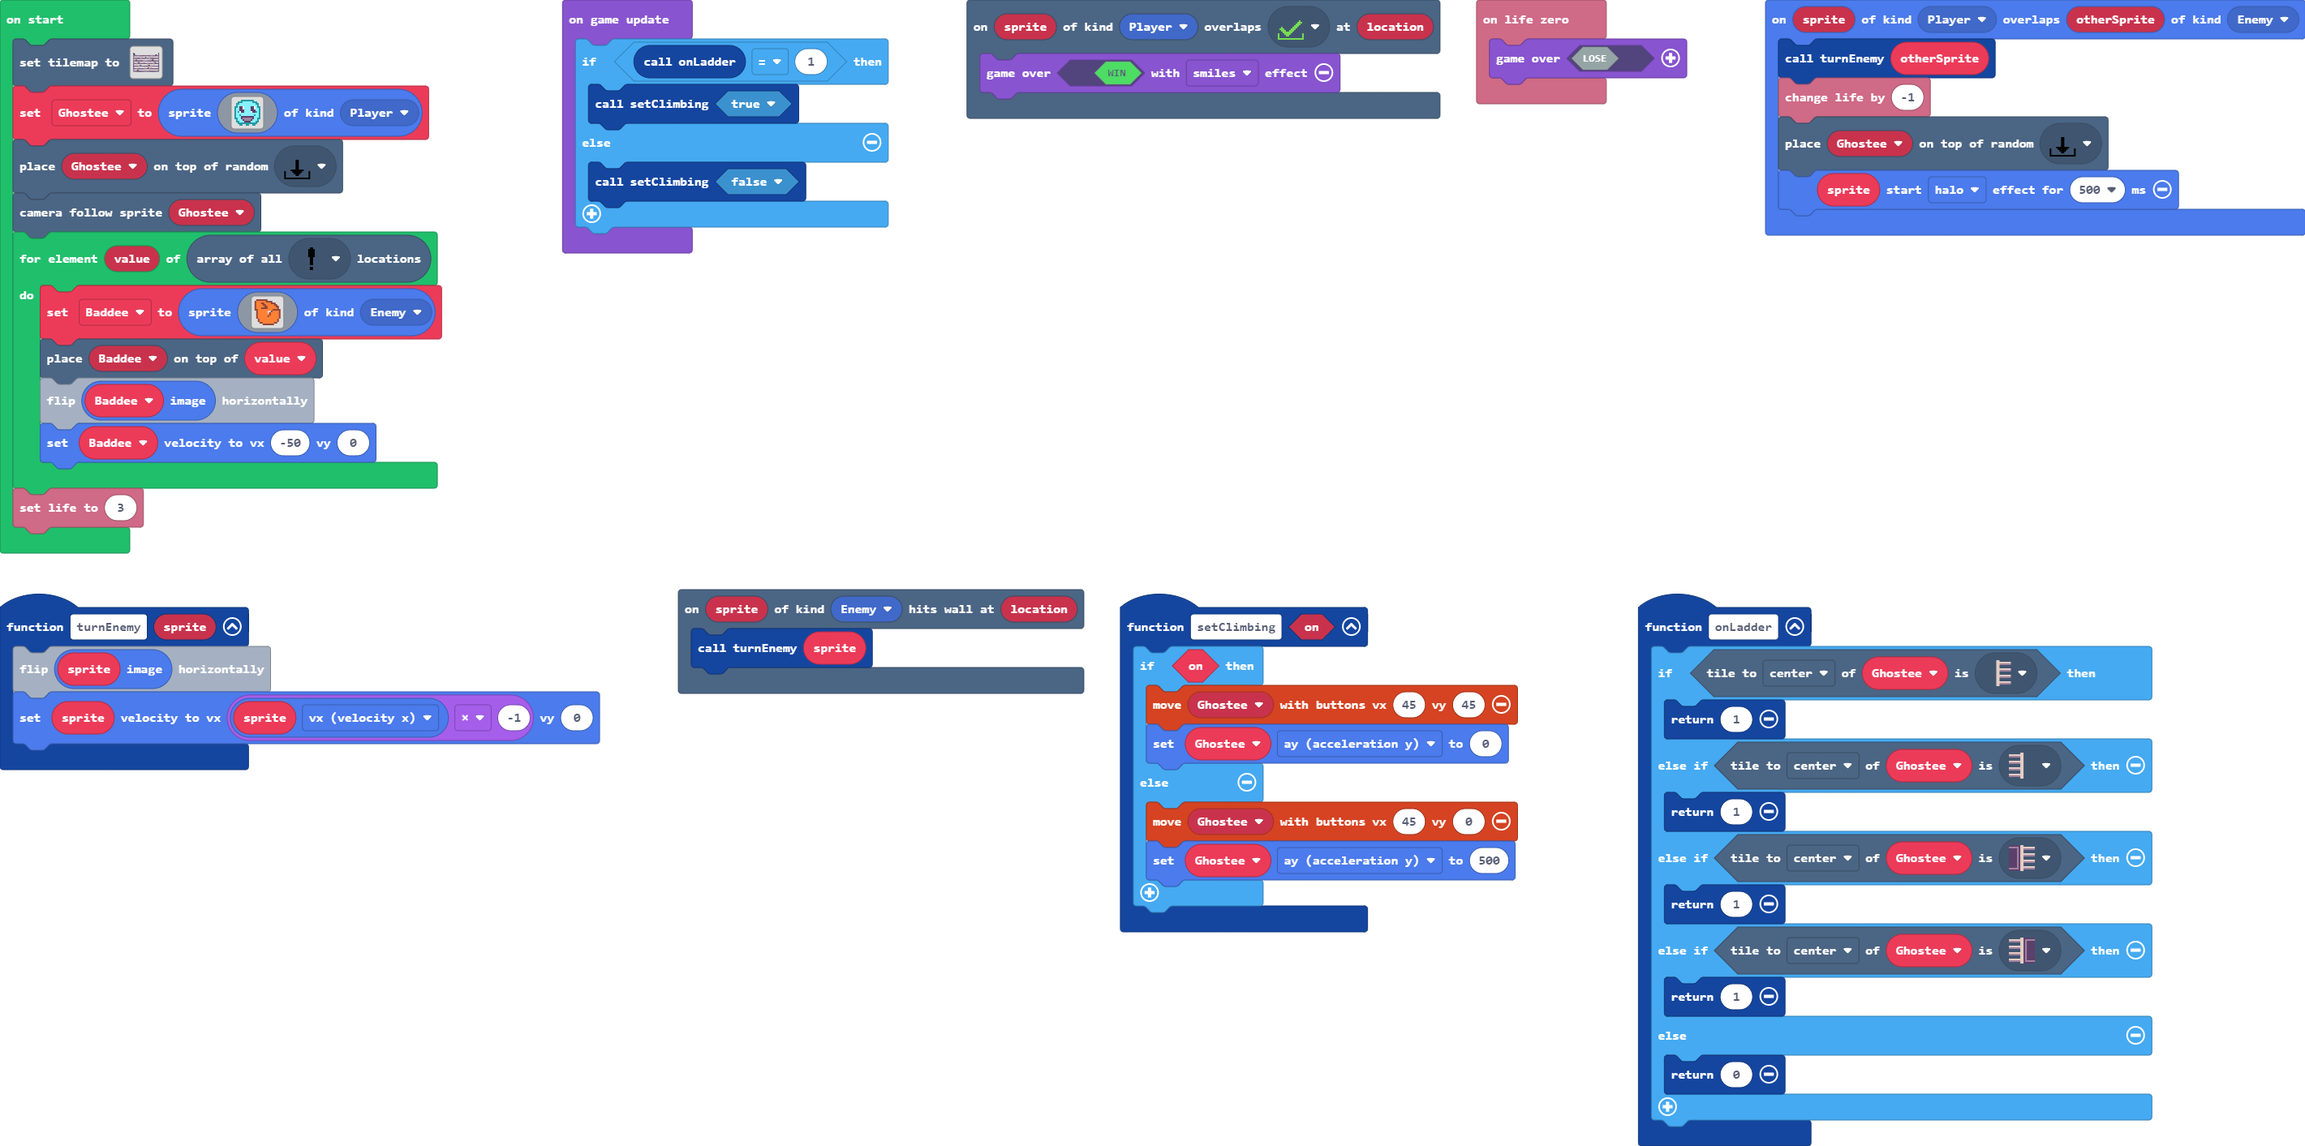
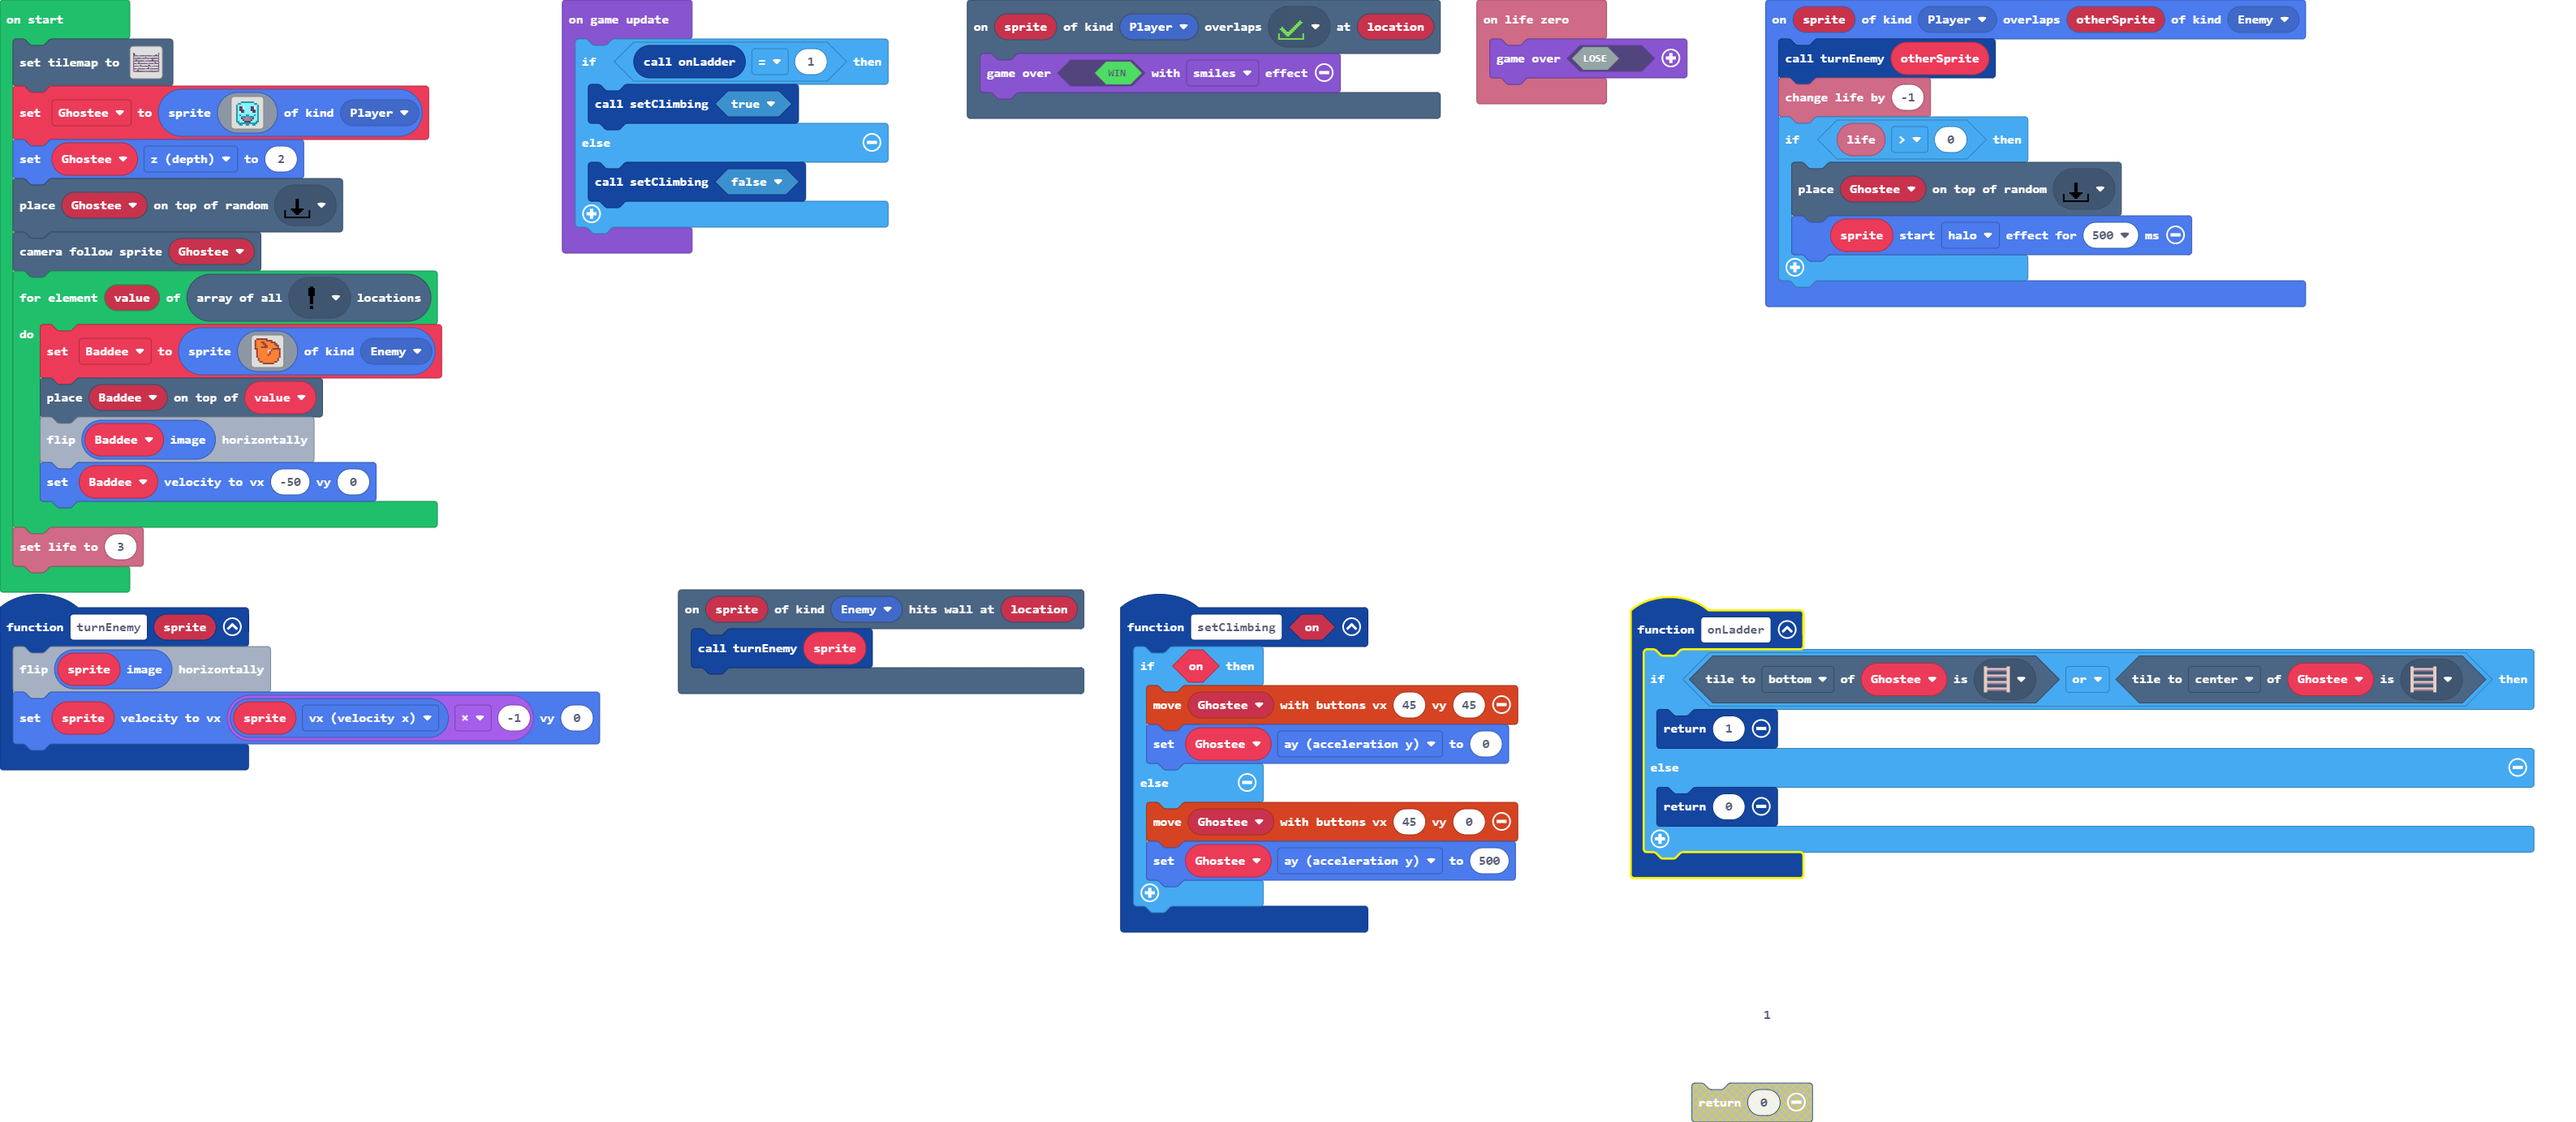
Smaller player sprite, back to one-tile ladders

diff --git a/tilemap.g.ts b/tilemap.g.ts
@@ -49,30 +49,30 @@ namespace myTiles {
 2............................2
 222222222222222222222222222222
 `, [myTiles.transparency16,myTiles.tile1,myTiles.tile2,myTiles.tile3,myTiles.tile4,myTiles.tile7,myTiles.tile8,myTiles.tile9,myTiles.tile10,myTiles.tile5,myTiles.tile6], TileScale.Sixteen)
[2 lines of base64/hex data omitted]
 2............................2
 2............................2
 22...........................2
-22222..22222222222222..2222222
+222222.222222222222222.2222222
 2............................2
 2............................2
-22222222..22222222..2222222222
+222222222.222222222.2222222222
 2............................2
 2............................2
-222222222222..2222222222222222
+2222222222222.2222222222222222
 2............................2
 2............................2
-222..22222222222..22222..22222
+2222.222222222222.222222.22222
 2............................2
 2............................2
-222222..222222222222..22222222
+2222222.2222222222222.22222222
 2............................2
 2............................2
-222..22222222..222..2222222222
+2222.222222222.2222.2222222222
 2............................2
 2............................2
 222222222222222222222222222222
-`, [myTiles.transparency16,myTiles.tile1,myTiles.tile2,myTiles.tile3,myTiles.tile4,myTiles.tile7,myTiles.tile8,myTiles.tile9,myTiles.tile10], TileScale.Sixteen)
+`, [myTiles.transparency16,myTiles.tile1,myTiles.tile2,myTiles.tile3,myTiles.tile4,myTiles.tile5], TileScale.Sixteen)
         }
         return null;
     })

diff --git a/main.ts b/main.ts
@@ -14,13 +14,7 @@ scene.onHitWall(SpriteKind.Enemy, function (sprite, location) {
     turnEnemy(sprite)
 })
 function onLadder () {
-    if (Ghostee.tileKindAt(TileDirection.Center, myTiles.tile7)) {
-        return 1
-    } else if (Ghostee.tileKindAt(TileDirection.Center, myTiles.tile10)) {
-        return 1
-    } else if (Ghostee.tileKindAt(TileDirection.Center, myTiles.tile8)) {
-        return 1
-    } else if (Ghostee.tileKindAt(TileDirection.Center, myTiles.tile9)) {
+    if (Ghostee.tileKindAt(TileDirection.Bottom, myTiles.tile5) || Ghostee.tileKindAt(TileDirection.Center, myTiles.tile5)) {
         return 1
     } else {
         return 0
@@ -36,30 +30,33 @@ function turnEnemy (sprite: Sprite) {
 sprites.onOverlap(SpriteKind.Player, SpriteKind.Enemy, function (sprite, otherSprite) {
     turnEnemy(otherSprite)
     info.changeLifeBy(-1)
-    tiles.placeOnRandomTile(Ghostee, myTiles.tile2)
-    sprite.startEffect(effects.halo, 500)
+    if (info.life() > 0) {
+        tiles.placeOnRandomTile(Ghostee, myTiles.tile2)
+        sprite.startEffect(effects.halo, 500)
+    }
 })
 let Baddee: Sprite = null
 let Ghostee: Sprite = null
 tiles.setTilemap(tilemap`level_0`)
 Ghostee = sprites.create(img`
-    . . . . 6 6 6 6 6 6 6 6 . . . . 
-    . . 6 6 6 9 9 9 9 9 9 6 6 6 . . 
-    . 6 6 9 9 9 9 9 9 9 9 9 9 6 6 . 
-    . 6 9 9 9 9 9 9 9 9 9 9 9 9 6 . 
-    6 6 9 c c 1 9 9 9 9 c c 1 9 6 6 
-    6 9 9 c c 1 9 9 9 9 c c 1 9 9 6 
-    6 9 9 c c c 9 9 9 9 c c c 9 9 6 
-    6 9 6 1 c c 9 9 9 9 1 c c 6 9 6 
-    6 9 9 9 9 9 9 9 9 9 9 9 9 9 9 6 
-    6 9 9 6 9 9 9 9 9 9 9 9 6 9 9 6 
-    6 9 9 9 c c c c c c c c 9 9 9 6 
-    6 6 9 9 c b b b b b b c 9 9 6 6 
-    . 6 9 9 9 c b b b b c 9 9 9 6 . 
-    . 6 6 9 9 9 c c c c 9 9 9 6 6 . 
-    . . 6 6 6 6 6 6 6 6 6 6 6 6 . . 
-    . . . 6 6 . . 6 6 . . 6 6 . . . 
+    . . . . . . . . . . . . . . 
+    . . . 6 6 6 6 6 6 6 6 . . . 
+    . 6 6 9 9 9 9 9 9 9 9 6 6 . 
+    6 9 9 9 9 9 9 9 9 9 9 9 9 6 
+    6 9 c c 1 9 9 9 9 c c 1 9 6 
+    6 9 c c 1 9 9 9 9 c c 1 9 6 
+    6 9 c c c 9 9 9 9 c c c 9 6 
+    6 9 1 c c 9 9 9 9 1 c c 9 6 
+    6 9 9 9 9 9 9 9 9 9 9 9 9 6 
+    6 9 6 9 9 9 6 6 9 9 9 6 9 6 
+    6 9 9 6 6 6 b b 6 6 6 9 9 6 
+    6 9 9 c b b b b b b c 9 9 6 
+    6 9 9 9 c b b b b c 9 9 9 6 
+    6 6 9 9 9 c c c c 9 9 9 6 6 
+    . 6 6 6 6 6 6 6 6 6 6 6 6 . 
+    . . 6 6 . . 6 6 . . 6 6 . . 
     `, SpriteKind.Player)
+Ghostee.z = 2
 tiles.placeOnRandomTile(Ghostee, myTiles.tile2)
 scene.cameraFollowSprite(Ghostee)
 for (let value of tiles.getTilesByType(myTiles.tile4)) {
